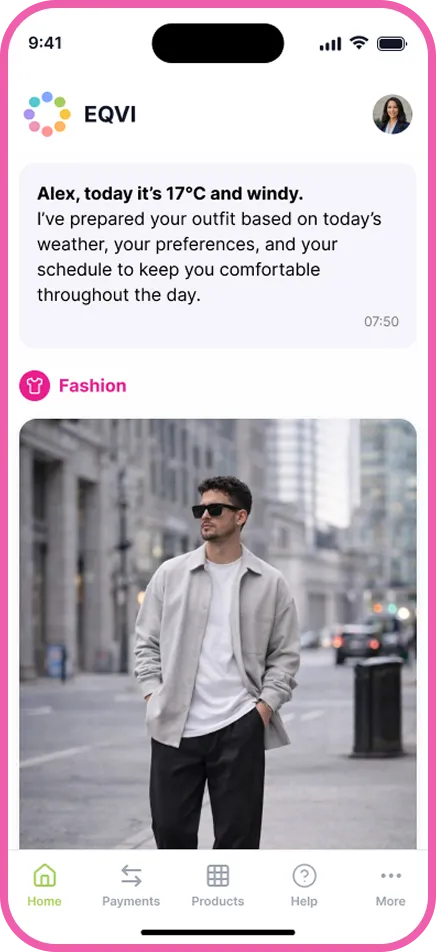
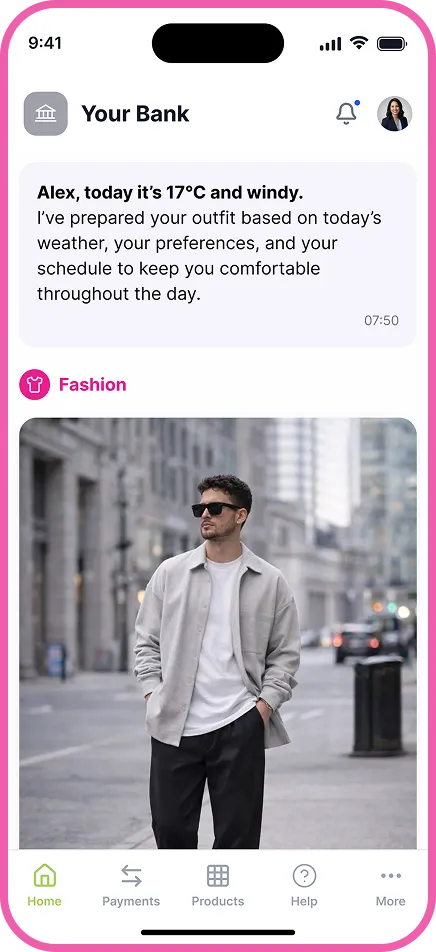
feat: images

diff --git a/Assets/CSS/output.css b/Assets/CSS/output.css
@@ -204,9 +204,6 @@
   .top-0 {
     top: calc(var(--spacing) * 0);
   }
-  .top-1 {
-    top: calc(var(--spacing) * 1);
-  }
   .top-1\/2 {
     top: calc(1/2 * 100%);
   }
@@ -228,14 +225,8 @@
   .right-0 {
     right: calc(var(--spacing) * 0);
   }
-  .right-2 {
-    right: calc(var(--spacing) * 2);
-  }
   .right-2\.5 {
     right: calc(var(--spacing) * 2.5);
-  }
-  .right-3 {
-    right: calc(var(--spacing) * 3);
   }
   .right-3\.5 {
     right: calc(var(--spacing) * 3.5);
@@ -254,9 +245,6 @@
   }
   .left-0 {
     left: calc(var(--spacing) * 0);
-  }
-  .left-1 {
-    left: calc(var(--spacing) * 1);
   }
   .left-1\/2 {
     left: calc(1/2 * 100%);
@@ -311,9 +299,6 @@
   }
   .-mt-16 {
     margin-top: calc(var(--spacing) * -16);
-  }
-  .mt-0 {
-    margin-top: calc(var(--spacing) * 0);
   }
   .mt-0\.5 {
     margin-top: calc(var(--spacing) * 0.5);
@@ -392,9 +377,6 @@
   }
   .hidden {
     display: none;
-  }
-  .table {
-    display: table;
   }
   .aspect-9\/16 {
     aspect-ratio: 9/16;
@@ -540,14 +522,8 @@
   .min-h-\[30px\] {
     min-height: 30px;
   }
-  .w-0 {
-    width: calc(var(--spacing) * 0);
-  }
   .w-0\.5 {
     width: calc(var(--spacing) * 0.5);
-  }
-  .w-1 {
-    width: calc(var(--spacing) * 1);
   }
   .w-1\.5 {
     width: calc(var(--spacing) * 1.5);
@@ -822,31 +798,14 @@
   .max-w-\[1240px\] {
     max-width: 1240px;
   }
-  .flex-shrink {
-    flex-shrink: 1;
-  }
   .shrink-0 {
     flex-shrink: 0;
-  }
-  .flex-grow {
-    flex-grow: 1;
   }
   .grow {
     flex-grow: 1;
   }
-  .border-collapse {
-    border-collapse: collapse;
-  }
-  .-translate-x-1 {
-    --tw-translate-x: calc(var(--spacing) * -1);
-    translate: var(--tw-translate-x) var(--tw-translate-y);
-  }
   .-translate-x-1\/2 {
     --tw-translate-x: calc(calc(1/2 * 100%) * -1);
-    translate: var(--tw-translate-x) var(--tw-translate-y);
-  }
-  .-translate-y-1 {
-    --tw-translate-y: calc(var(--spacing) * -1);
     translate: var(--tw-translate-x) var(--tw-translate-y);
   }
   .-translate-y-1\/2 {
@@ -913,9 +872,6 @@
   }
   .justify-center {
     justify-content: center;
-  }
-  .gap-0 {
-    gap: calc(var(--spacing) * 0);
   }
   .gap-0\.5 {
     gap: calc(var(--spacing) * 0.5);
@@ -985,9 +941,6 @@
   }
   .gap-px {
     gap: 1px;
-  }
-  .gap-x-3 {
-    column-gap: calc(var(--spacing) * 3);
   }
   .gap-x-3\.5 {
     column-gap: calc(var(--spacing) * 3.5);
@@ -1130,9 +1083,6 @@
   }
   .border-black {
     border-color: var(--color-black);
-  }
-  .border-white {
-    border-color: var(--color-white);
   }
   .border-white\/5 {
     border-color: color-mix(in srgb, #fff 5%, transparent);
@@ -1286,9 +1236,6 @@
   }
   .bg-\[\#FFFFFF40\] {
     background-color: #FFFFFF40;
-  }
-  .bg-black {
-    background-color: var(--color-black);
   }
   .bg-black\/10 {
     background-color: color-mix(in srgb, #000 10%, transparent);
@@ -1469,9 +1416,6 @@
   }
   .pr-\[26px\] {
     padding-right: 26px;
-  }
-  .pb-3 {
-    padding-bottom: calc(var(--spacing) * 3);
   }
   .pb-3\.5 {
     padding-bottom: calc(var(--spacing) * 3.5);
@@ -1923,30 +1867,14 @@
     --tw-ring-shadow: var(--tw-ring-inset,) 0 0 0 calc(1px + var(--tw-ring-offset-width)) var(--tw-ring-color, currentcolor);
     box-shadow: var(--tw-inset-shadow), var(--tw-inset-ring-shadow), var(--tw-ring-offset-shadow), var(--tw-ring-shadow), var(--tw-shadow);
   }
-  .outline {
-    outline-style: var(--tw-outline-style);
-    outline-width: 1px;
-  }
   .grayscale {
     --tw-grayscale: grayscale(100%);
-    filter: var(--tw-blur,) var(--tw-brightness,) var(--tw-contrast,) var(--tw-grayscale,) var(--tw-hue-rotate,) var(--tw-invert,) var(--tw-saturate,) var(--tw-sepia,) var(--tw-drop-shadow,);
-  }
-  .filter {
     filter: var(--tw-blur,) var(--tw-brightness,) var(--tw-contrast,) var(--tw-grayscale,) var(--tw-hue-rotate,) var(--tw-invert,) var(--tw-saturate,) var(--tw-sepia,) var(--tw-drop-shadow,);
   }
   .backdrop-blur-xs {
     --tw-backdrop-blur: blur(var(--blur-xs));
     -webkit-backdrop-filter: var(--tw-backdrop-blur,) var(--tw-backdrop-brightness,) var(--tw-backdrop-contrast,) var(--tw-backdrop-grayscale,) var(--tw-backdrop-hue-rotate,) var(--tw-backdrop-invert,) var(--tw-backdrop-opacity,) var(--tw-backdrop-saturate,) var(--tw-backdrop-sepia,);
     backdrop-filter: var(--tw-backdrop-blur,) var(--tw-backdrop-brightness,) var(--tw-backdrop-contrast,) var(--tw-backdrop-grayscale,) var(--tw-backdrop-hue-rotate,) var(--tw-backdrop-invert,) var(--tw-backdrop-opacity,) var(--tw-backdrop-saturate,) var(--tw-backdrop-sepia,);
-  }
-  .backdrop-filter {
-    -webkit-backdrop-filter: var(--tw-backdrop-blur,) var(--tw-backdrop-brightness,) var(--tw-backdrop-contrast,) var(--tw-backdrop-grayscale,) var(--tw-backdrop-hue-rotate,) var(--tw-backdrop-invert,) var(--tw-backdrop-opacity,) var(--tw-backdrop-saturate,) var(--tw-backdrop-sepia,);
-    backdrop-filter: var(--tw-backdrop-blur,) var(--tw-backdrop-brightness,) var(--tw-backdrop-contrast,) var(--tw-backdrop-grayscale,) var(--tw-backdrop-hue-rotate,) var(--tw-backdrop-invert,) var(--tw-backdrop-opacity,) var(--tw-backdrop-saturate,) var(--tw-backdrop-sepia,);
-  }
-  .transition {
-    transition-property: color, background-color, border-color, outline-color, text-decoration-color, fill, stroke, --tw-gradient-from, --tw-gradient-via, --tw-gradient-to, opacity, box-shadow, transform, translate, scale, rotate, filter, -webkit-backdrop-filter, backdrop-filter, display, content-visibility, overlay, pointer-events;
-    transition-timing-function: var(--tw-ease, var(--default-transition-timing-function));
-    transition-duration: var(--tw-duration, var(--default-transition-duration));
   }
   .transition-all {
     transition-property: all;
@@ -2372,11 +2300,6 @@
   .max-md\:max-w-\[170px\] {
     @media (width < 48rem) {
       max-width: 170px;
-    }
-  }
-  .max-md\:max-w-\[220\] {
-    @media (width < 48rem) {
-      max-width: 220;
     }
   }
   .max-md\:max-w-\[220px\] {
@@ -3899,11 +3822,6 @@
   inherits: false;
   initial-value: 0 0 #0000;
 }
-@property --tw-outline-style {
-  syntax: "*";
-  inherits: false;
-  initial-value: solid;
-}
 @property --tw-blur {
   syntax: "*";
   inherits: false;
@@ -4038,7 +3956,6 @@
       --tw-ring-offset-width: 0px;
       --tw-ring-offset-color: #fff;
       --tw-ring-offset-shadow: 0 0 #0000;
-      --tw-outline-style: solid;
       --tw-blur: initial;
       --tw-brightness: initial;
       --tw-contrast: initial;